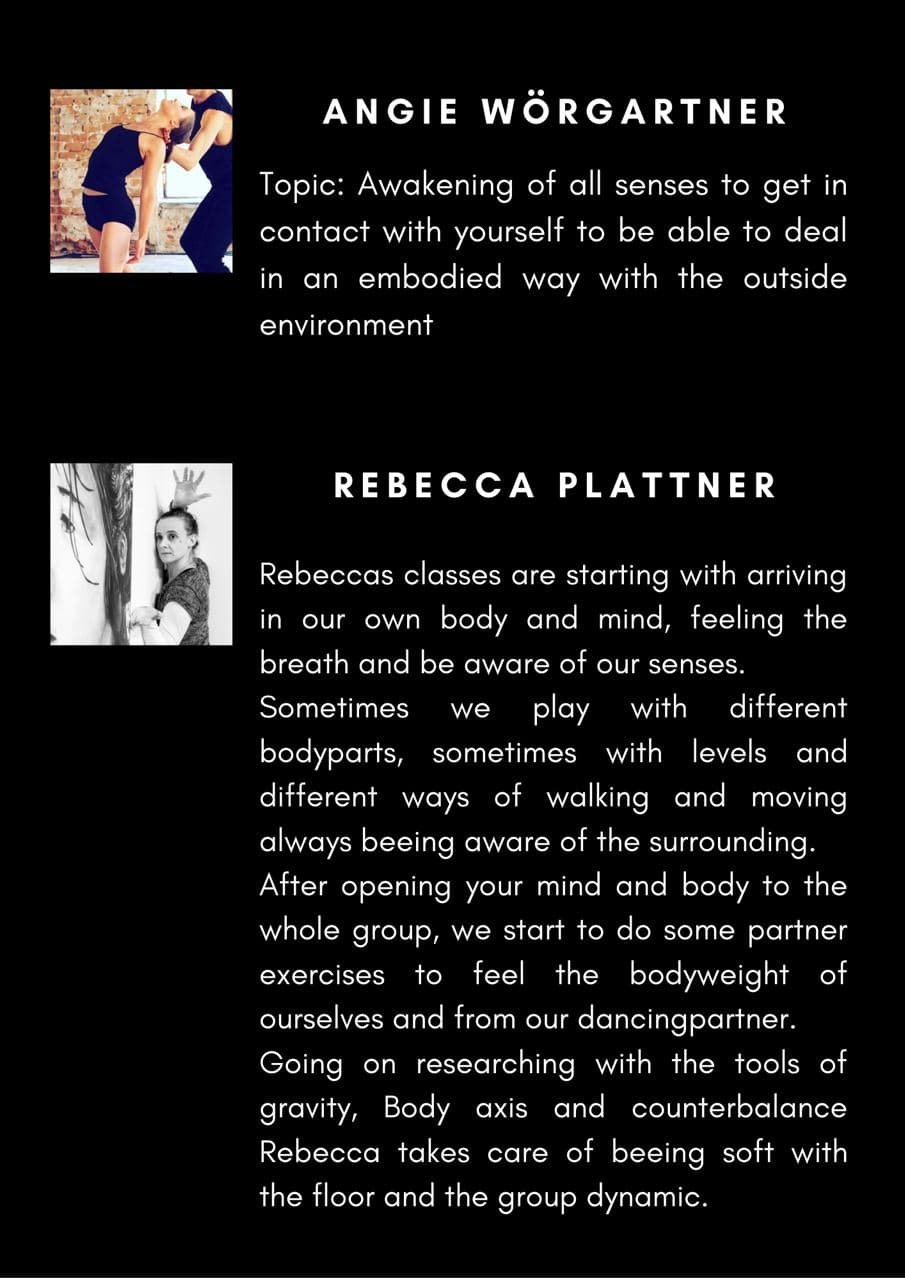
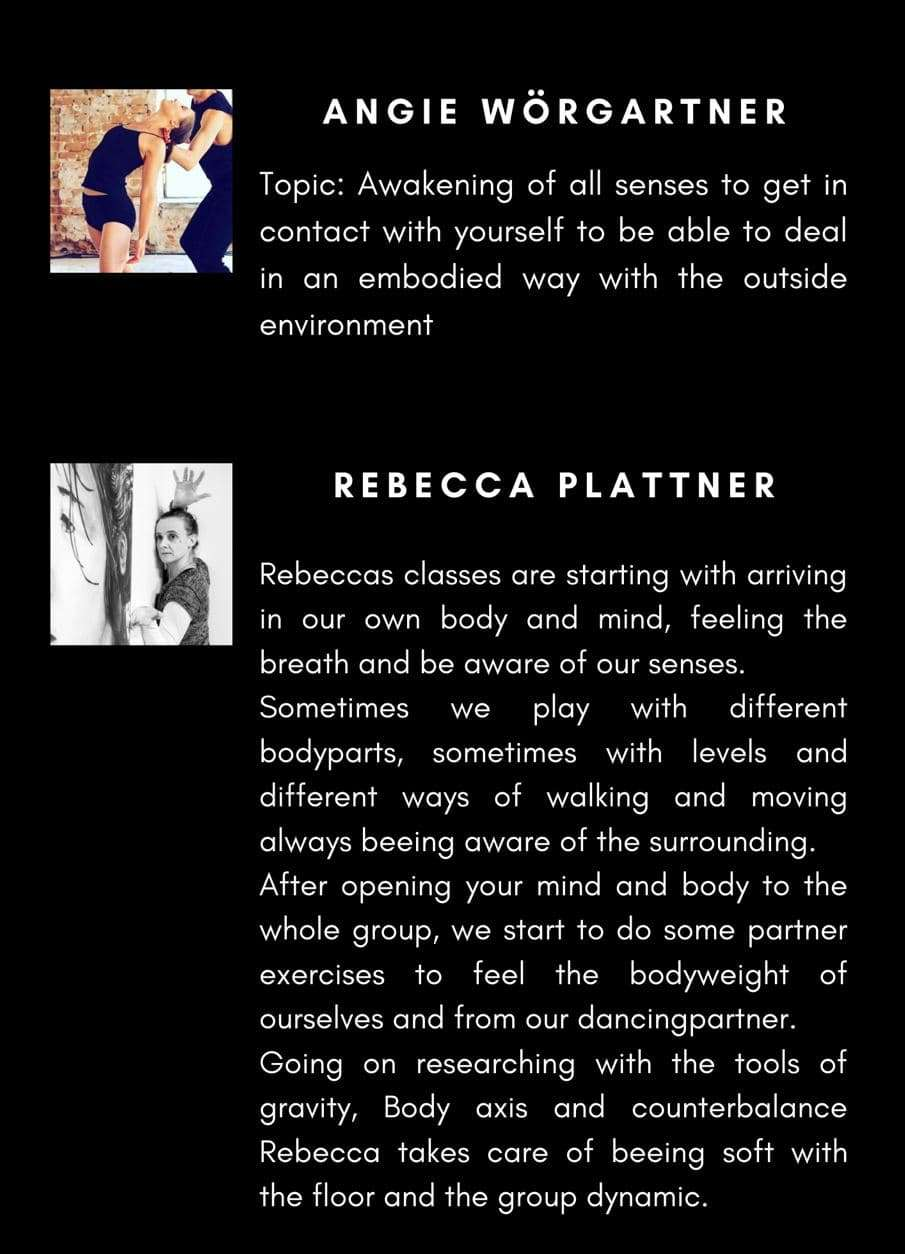
1

diff --git a/pages/CI_base.html b/pages/CI_base.html
@@ -65,9 +65,9 @@
     </header>
     <main style="background-color: black; text-align: center;">
         <img src="..\gallery\CITyrolFest2021\ci_base_Text0.jpg"> <br>
-        <img src="..\gallery\CITyrolFest2021\ci_base_Text1.jpg">
         <img src="..\gallery\CITyrolFest2021\ci_base_Text2.jpg">
-        <img src="..\gallery\CITyrolFest2021\ci_base_Text3.jpg"><br><br><br><br>
+        <img src="..\gallery\CITyrolFest2021\ci_base_Text3.jpg">
+        <img src="..\gallery\CITyrolFest2021\ci_base_Text1.png" width="70%" ><br><br><br><br>
 
 
         <br><br>
